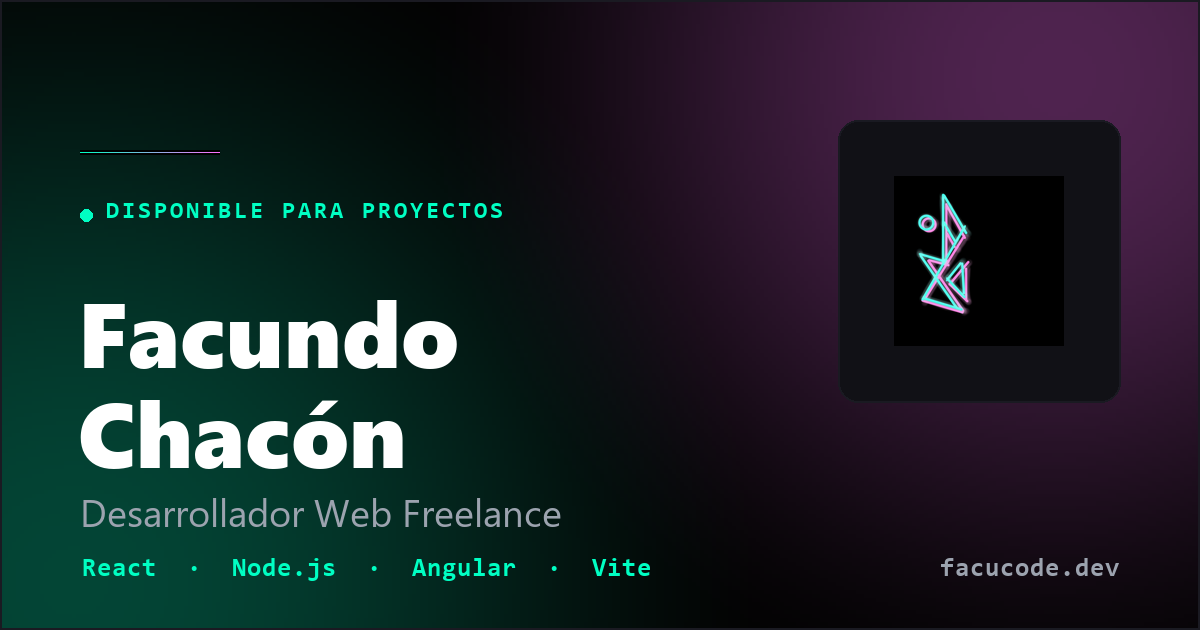
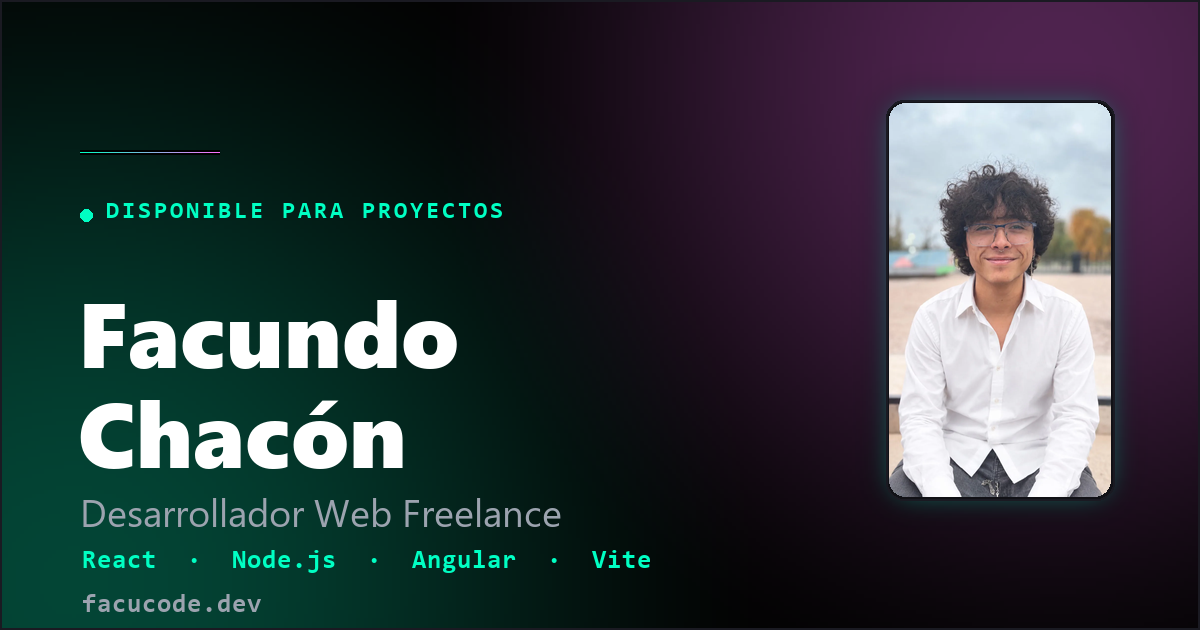
fix(meta): usa el retrato en la imagen OG y saca tags de Twitter

diff --git a/index.html b/index.html
@@ -22,11 +22,6 @@
     <meta property="og:image:height" content="630" />
     <meta property="og:image:alt" content="Facundo Chacón, desarrollador web freelance" />
 
-    <meta name="twitter:card" content="summary_large_image" />
-    <meta name="twitter:title" content="Facundo Chacón | Desarrollador Web Freelance" />
-    <meta name="twitter:description" content="Desarrollador web freelance. Creo sitios modernos y profesionales." />
-    <meta name="twitter:image" content="https://www.facucode.dev/og-image.png" />
-    <meta name="twitter:image:alt" content="Facundo Chacón, desarrollador web freelance" />
     <link rel="preconnect" href="https://fonts.googleapis.com" />
     <link rel="preconnect" href="https://fonts.gstatic.com" crossorigin />
     <link href="https://fonts.googleapis.com/css2?family=Inter:wght@400;500;600;700;800;900&family=JetBrains+Mono:wght@400;500&family=Orbitron:wght@400;500;600;700;800;900&family=Rajdhani:wght@300;400;500;600;700&display=swap" rel="stylesheet" />
